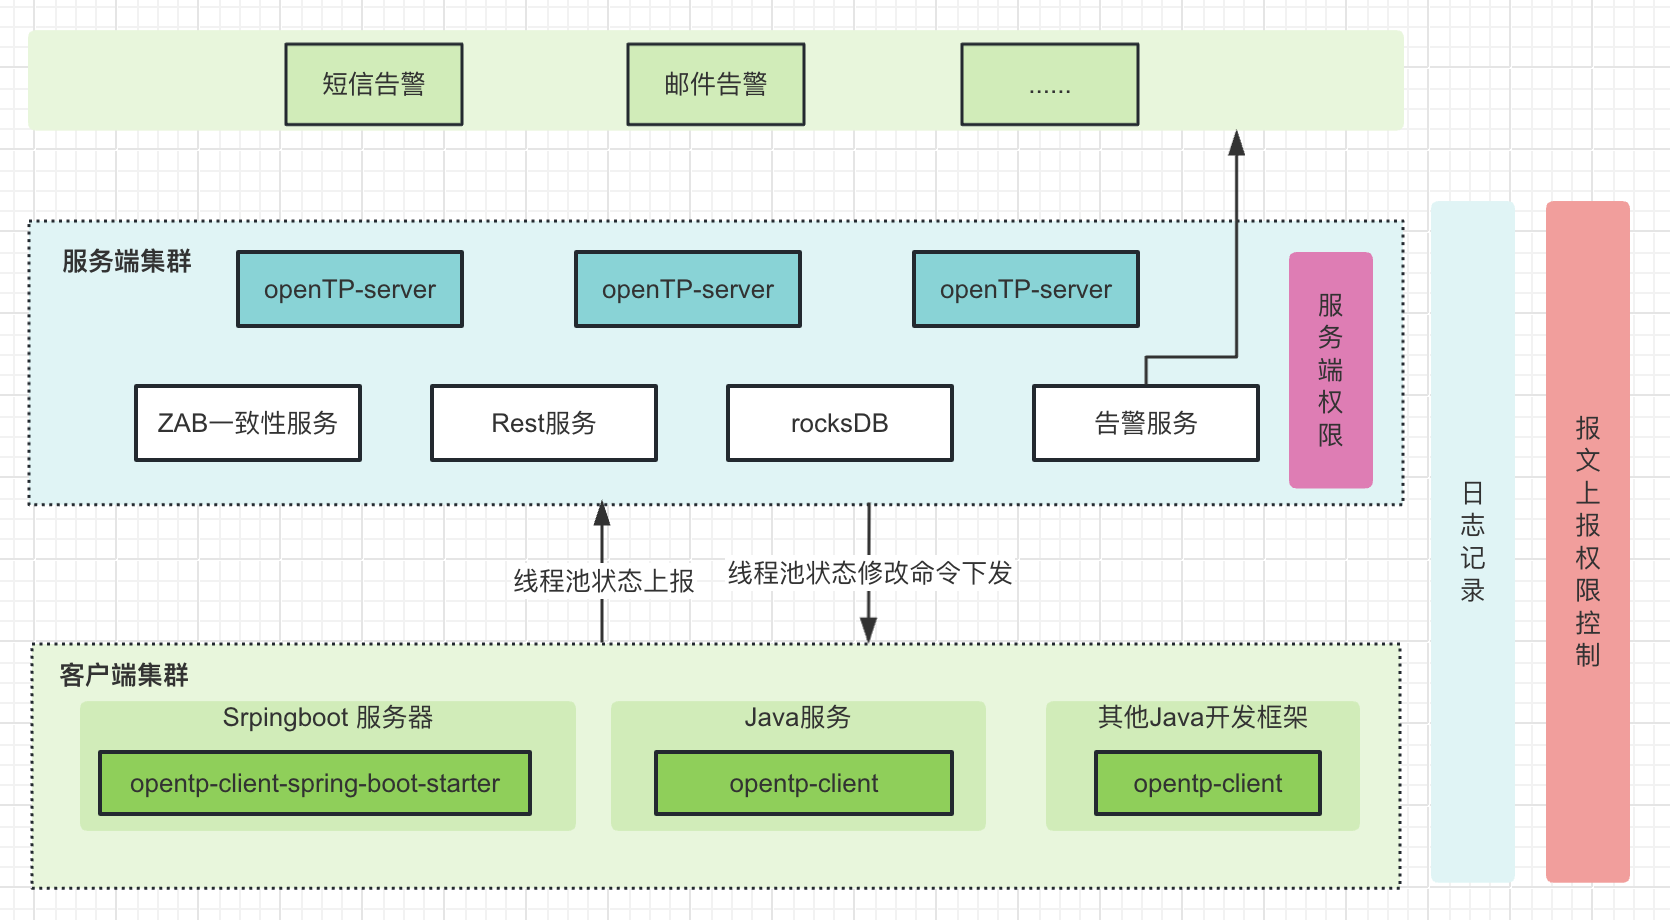
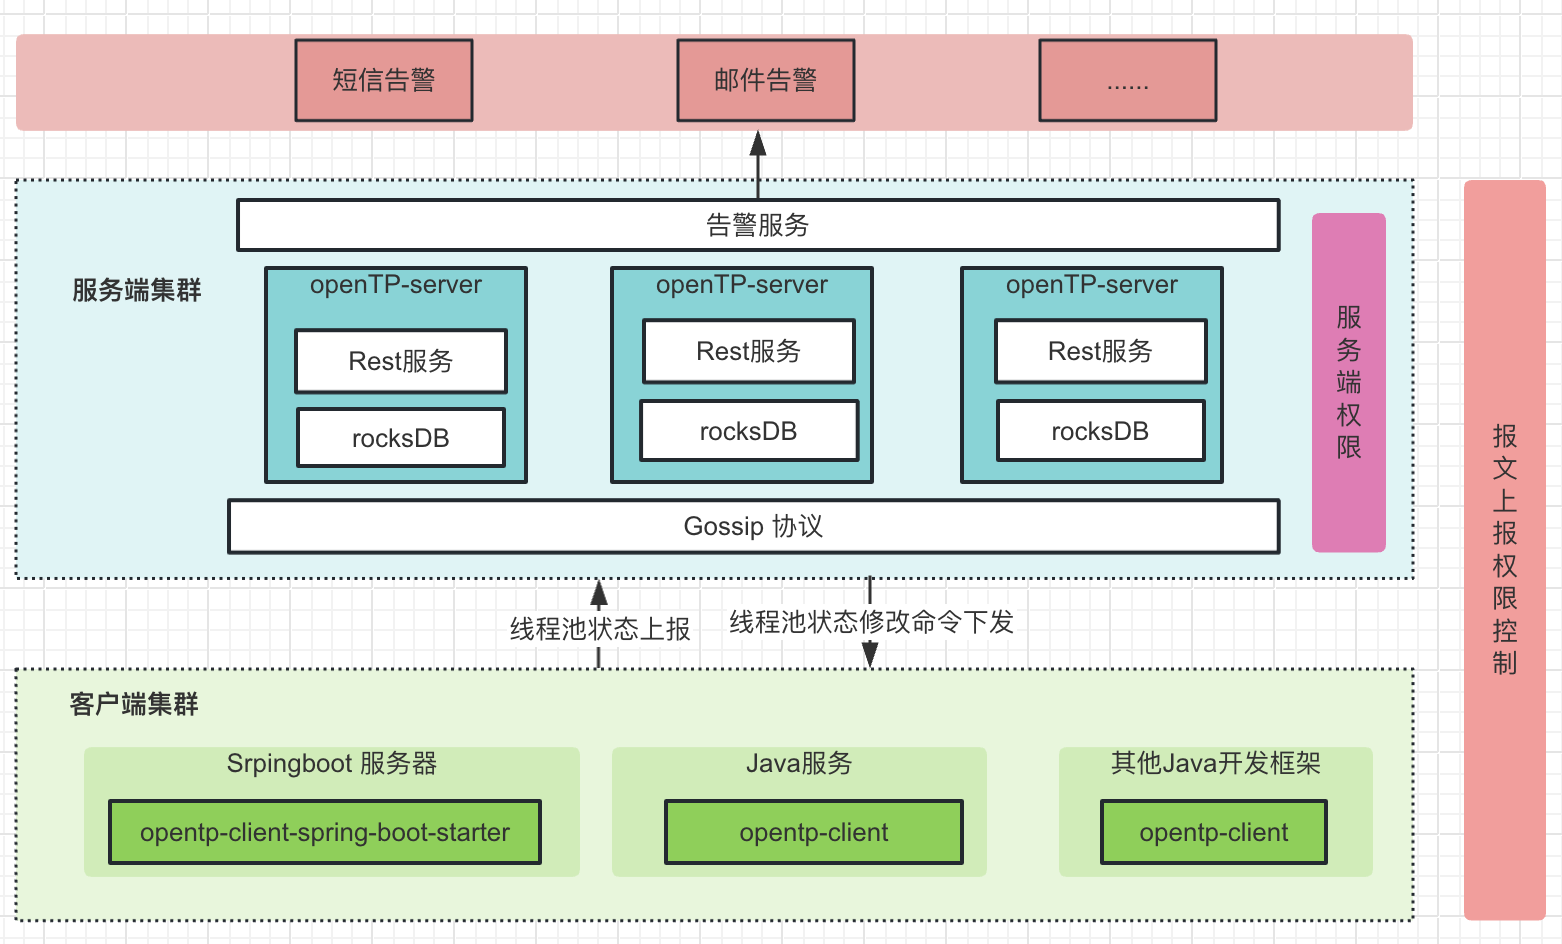
update doc

diff --git a/src/opentp/README.md b/src/opentp/README.md
@@ -17,7 +17,7 @@ dir:
 
 ### 代码目录
 
-![代码目录](code.jpg)
+![代码目录](code.png)
 
 
 ### 详细介绍
@@ -30,8 +30,9 @@ opentp 分为服务端和客户端。
 #### 服务端
 1. 服务端可集群部署可单机部署
 2. 服务端提供了基于 netty 实现的 rest 接口，供查询线程池状态和进行线程池参数修改。
-3. 基于 zab 协议来保证客户端链接整个集群一致性。
-4. 服务器提供报文上报权限控制，首次链接需要携带 appId 和 appKey 进行权限验证，通过后会返回 licenseKey，licenseKey 有一定的有效时间，客户端会定期申请 licenseKey，业务使用方无感知。 
-5. 后续客户端上报线程池信息需要携带 licenseKey。
-6. 服务端提供用户权限控制，用户分为管理员和普通用户，管理员只是用来管理用户，普通用户仅可看到自己负责的 appId 的线程池信息。
-7. 服务端用户可以同时拥有管理员和普通用户权限（即管理员也是普通用户）。 
+3. Opentp server 是基于 AP 架构的分布式服务器集群，部分节点故障，不会影响整个集群的服务，客户端会自动转移到其他可用服务节点。
+4. 基于原生的 Gossip 协议来保证整个集群最终一致性，无需依赖任何第三方中间件。
+5. 服务器提供报文上报权限控制，首次链接需要携带 appId 和 appKey 进行权限验证，通过后会返回 licenseKey，licenseKey 有一定的有效时间，客户端会定期申请 licenseKey，业务使用方无感知。 
+6. 后续客户端上报线程池信息需要携带 licenseKey。
+7. 服务端提供用户权限控制，用户分为管理员和普通用户，管理员只是用来管理用户，普通用户仅可看到自己负责的 appId 的线程池信息。
+8. 服务端用户可以同时拥有管理员和普通用户权限（即管理员也是普通用户）。 

diff --git a/src/quickstart/README.md b/src/quickstart/README.md
@@ -14,7 +14,7 @@ dir:
 
 ### 代码目录
 
-![代码目录](code.jpg)
+![代码目录](code.png)
 
 
 ### 详细介绍
@@ -27,8 +27,9 @@ opentp 分为服务端和客户端。
 #### 服务端
 1. 服务端可集群部署可单机部署
 2. 服务端提供了基于 netty 实现的 rest 接口，供查询线程池状态和进行线程池参数修改。
-3. 基于 zab 协议来保证客户端链接整个集群一致性。
-4. 服务器提供报文上报权限控制，首次链接需要携带 appId 和 appKey 进行权限验证，通过后会返回 licenseKey，licenseKey 有一定的有效时间，客户端会定期申请 licenseKey，业务使用方无感知。 
-5. 后续客户端上报线程池信息需要携带 licenseKey。
-6. 服务端提供用户权限控制，用户分为管理员和普通用户，管理员只是用来管理用户，普通用户仅可看到自己负责的 appId 的线程池信息。
-7. 服务端用户可以同时拥有管理员和普通用户权限（即管理员也是普通用户）。 
+3. Opentp server 是基于 AP 架构的分布式服务器集群，部分节点故障，不会影响整个集群的服务，客户端会自动转移到其他可用服务节点。
+4. 基于原生的 Gossip 协议来保证整个集群最终一致性，无需依赖任何第三方中间件。
+5. 服务器提供报文上报权限控制，首次链接需要携带 appId 和 appKey 进行权限验证，通过后会返回 licenseKey，licenseKey 有一定的有效时间，客户端会定期申请 licenseKey，业务使用方无感知。 
+6. 后续客户端上报线程池信息需要携带 licenseKey。
+7. 服务端提供用户权限控制，用户分为管理员和普通用户，管理员只是用来管理用户，普通用户仅可看到自己负责的 appId 的线程池信息。
+8. 服务端用户可以同时拥有管理员和普通用户权限（即管理员也是普通用户）。 
